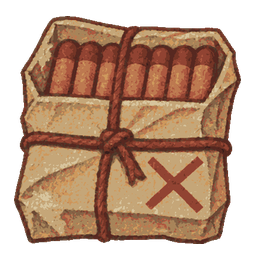
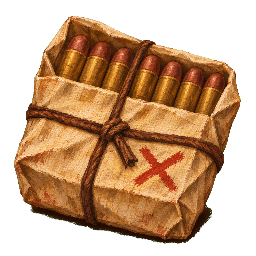
art: the darker ammunition the owner chose comes back
The review pass repainted both packs matte with a thicker outline. The
owner prefers the warm paintings they picked, so ammo_shells.png and
ammo_rounds.png return from 4ab9bab. The foot inset already fits them;
the provenance names them as current and the repaint as previous.

diff --git a/docs/HISTORIA.md b/docs/HISTORIA.md
@@ -129,7 +129,8 @@ SIGIL: BREACH 0.45 / plan z 3 listopada wieczorem (docs/PLAN.md, decyzje D11–D
   zegarach, kontrast rdzenia 4,5–5:1. Amunicja: łuski spięte drutem i
   naboje w płótnie, ciemniejsze warianty wybrane przez właściciela (Astra
   wybrała jaśniejsze dla kontrastu), odbicie światła 0,85 → 1,25, dół
-  paczki na posadzce zamiast 0,24 m nad nią.
+  paczki na posadzce zamiast 0,24 m nad nią. Późniejsze matowe przemalowanie
+  amunicji właściciel odrzucił: w grze zostają te ciemniejsze obrazy.
 
 
 ########################################################################
